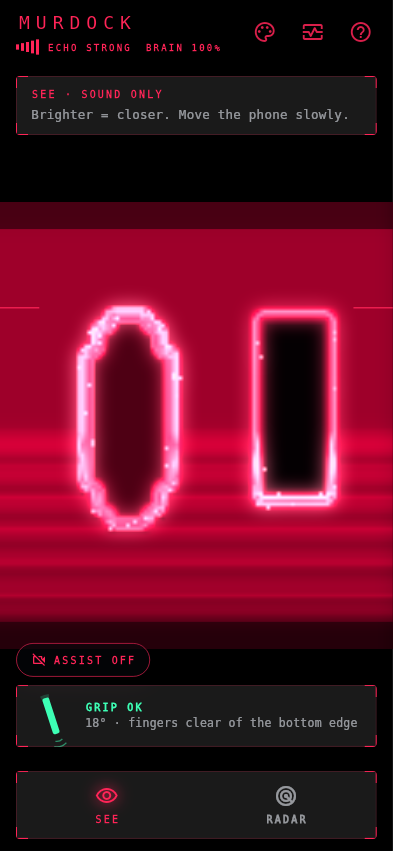
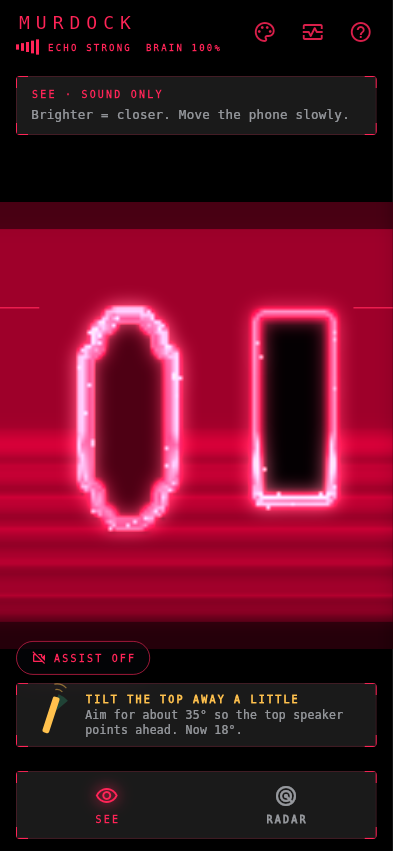
Fix echo AI crash on second launch; run the app upside down
- EchoBrain: 'interpreter = open()' ran as a property initializer before the
  lazy modelId delegate below it existed. open() only reads modelId when saved
  learning is present, so the AI loaded on first launch and crashed on every
  launch after its first save ('getValue() on a null object reference', seen on
  device). The interpreter is now created in the init block at the end of the
  class. tool/jvm_startup_check runs EchoBrain's real startup twice against a
  stand-in LiteRT: the old code reproduces the device error, the fix passes
- Upside-down layout (reversePortrait): the bottom-edge speaker ends up on top,
  so a comfortable reading angle (top tilted ~35 deg away) aims it ahead.
  Tilt is re-derived for the flipped phone, grip rules/gauge/guide updated,
  camera frames rotated a further 180 deg, capture orientation locked to match

Claude-Session: https://claude.ai/code/session_01FaaL1WKpQiBqvyPWN8qiJK

Changed region(s): [[0.0305, 0.7333, 0.9466, 0.886]]

diff --git a/lib/ui/grip.dart b/lib/ui/grip.dart
@@ -5,11 +5,13 @@ import 'package:flutter/material.dart';
 import '../render/palette.dart';
 import 'hud.dart';
 
-/// Recommended grip: portrait, back camera facing the room, top tilted toward you by about
-/// this much so the bottom-edge speaker points forward instead of at the floor.
-/// Tilt sign (from MainActivity): positive = top toward you, negative = top away / screen up.
-const double kIdealTilt = 18;
-const double kTiltTolerance = 12;
+/// Recommended grip: the app runs UPSIDE DOWN, so the speaker (normally the bottom edge) is
+/// at the top. Hold it like you're reading it, top tilted away from you by about this much:
+/// the screen faces you comfortably, the speaker aims ahead and up, the back camera faces the
+/// room (angled slightly down).
+/// Tilt sign (from MainActivity): positive = top (speaker end) away from you; 90 = flat.
+const double kIdealTilt = 35;
+const double kTiltTolerance = 15;
 
 enum GripLevel { ok, warn, bad }
 
@@ -21,7 +23,7 @@ class GripAdvice {
   final String detail;
 
   /// [tilt]/[roll] from the motion sensor; [directDb] = speaker loudness vs calibration;
-  /// [taughtTilt] = average tilt while teaching (only checked when [checkTaught]).
+  /// [taughtTilt] = average tilt while learning (only checked when [checkTaught]).
   static GripAdvice of({
     required double tilt,
     required double roll,
@@ -31,31 +33,28 @@ class GripAdvice {
   }) {
     if (!directDb.isNaN && directDb < -8) {
       return const GripAdvice(GripLevel.bad, 'SPEAKER OR MIC COVERED?',
-          'The speaker sounds much quieter than when calibrated. Keep fingers off the bottom edge.');
+          'The speaker sounds much quieter than when calibrated. Keep fingers off the top edge.');
     }
     if (roll.abs() > 35) {
-      return const GripAdvice(GripLevel.bad, 'HOLD IT UPRIGHT', 'Turn the phone to portrait, back camera facing the room.');
+      return const GripAdvice(GripLevel.bad, 'HOLD IT UPRIGHT', 'Hold it in portrait (this app runs upside down).');
     }
-    if (tilt < -40) {
-      return const GripAdvice(GripLevel.bad, 'TOO FLAT', 'Raise the phone upright so the back camera faces the room.');
+    if (tilt > 75) {
+      return const GripAdvice(GripLevel.bad, 'TOO FLAT',
+          'The camera is aiming at the floor. Raise the top of the phone a bit.');
     }
-    if (tilt > 55) {
-      return const GripAdvice(GripLevel.bad, 'TILTED TOO FAR TOWARD YOU',
-          'The camera is aiming at the ceiling. Bring the top of the phone back up.');
-    }
-    if (tilt < -5) {
-      return const GripAdvice(GripLevel.warn, 'TILT THE TOP TOWARD YOU',
-          'The top is leaning away, so the speaker aims at you and the floor. Lean the top toward you about 15°.');
+    if (tilt < -10) {
+      return const GripAdvice(GripLevel.bad, 'TOP LEANING TOWARD YOU',
+          'The speaker is aiming at you. Tilt the top of the phone away from you, like reading it.');
     }
     if (checkTaught && taughtTilt != null && (tilt - taughtTilt).abs() > 15) {
       return GripAdvice(GripLevel.warn, 'NOT HOW YOU TAUGHT IT',
           'You taught it at ${taughtTilt.round()}°; now ${tilt.round()}°. Match the grip for a better picture.');
     }
     if ((tilt - kIdealTilt).abs() > kTiltTolerance) {
-      return GripAdvice(GripLevel.warn, tilt < kIdealTilt ? 'TILT THE TOP TOWARD YOU A LITTLE' : 'TILT THE TOP BACK A LITTLE',
-          'Aim for about ${kIdealTilt.round()}° so the bottom speaker points ahead. Now ${tilt.round()}°.');
+      return GripAdvice(GripLevel.warn, tilt < kIdealTilt ? 'TILT THE TOP AWAY A LITTLE' : 'RAISE THE TOP A LITTLE',
+          'Aim for about ${kIdealTilt.round()}° so the top speaker points ahead. Now ${tilt.round()}°.');
     }
-    return GripAdvice(GripLevel.ok, 'GRIP OK', '${tilt.round()}° · fingers clear of the bottom edge');
+    return GripAdvice(GripLevel.ok, 'GRIP OK', '${tilt.round()}° · fingers clear of the top edge');
   }
 }
 
@@ -95,7 +94,7 @@ class GripBadge extends StatelessWidget {
 }
 
 /// The phone seen from the side (you are on the left, the room on the right), the green
-/// target wedge, and the speaker's sound beam leaving the bottom edge.
+/// target wedge, and the speaker's sound beam leaving the top edge.
 class TiltGaugePainter extends CustomPainter {
   TiltGaugePainter(this.tilt, this.colour);
 
@@ -109,20 +108,20 @@ class TiltGaugePainter extends CustomPainter {
     double rad(double deg) => deg * math.pi / 180;
     // Target zone around the ideal tilt (angles measured from vertical, top toward you).
     final zone = Paint()..color = const Color(0xFF3DFFB5).withValues(alpha: 0.18);
-    canvas.drawArc(Rect.fromCircle(center: c, radius: r), -math.pi / 2 - rad(kIdealTilt + kTiltTolerance),
+    canvas.drawArc(Rect.fromCircle(center: c, radius: r), -math.pi / 2 + rad(kIdealTilt - kTiltTolerance),
         rad(2 * kTiltTolerance), true, zone);
     canvas.save();
     canvas.translate(c.dx, c.dy);
-    canvas.rotate(-rad(tilt.clamp(-90, 90)));
+    canvas.rotate(rad(tilt.clamp(-90, 90)));
     final body = RRect.fromRectAndRadius(Rect.fromCenter(center: Offset.zero, width: 7, height: r * 1.7), const Radius.circular(2));
     canvas.drawRRect(body, Paint()..color = colour);
-    // Sound beam from the bottom edge.
+    // Sound beam from the top edge (the speaker, since the app runs upside down).
     final beam = Paint()
       ..color = colour.withValues(alpha: 0.5)
       ..style = PaintingStyle.stroke
       ..strokeWidth = 1.2;
     for (final f in [0.35, 0.6]) {
-      canvas.drawArc(Rect.fromCircle(center: Offset(0, r * 0.85), radius: r * f), math.pi / 2 - 0.5, 1.0, false, beam);
+      canvas.drawArc(Rect.fromCircle(center: Offset(0, -r * 0.85), radius: r * f), -math.pi / 2 - 0.5, 1.0, false, beam);
     }
     canvas.restore();
   }

diff --git a/test/widget_test.dart b/test/widget_test.dart
@@ -28,30 +28,21 @@ void main() {
     img.dispose();
   });
 
-  group('grip advice', () {
+  group('grip advice (upside-down layout: positive tilt = top away from you)', () {
     GripLevel level(double tilt, {double roll = 0, double db = double.nan, double? taught, bool see = false}) =>
         GripAdvice.of(tilt: tilt, roll: roll, directDb: db, taughtTilt: taught, checkTaught: see).level;
+    String title(double t) => GripAdvice.of(tilt: t, roll: 0, directDb: double.nan).title;
 
-    test('ideal tilt is OK', () => expect(level(18), GripLevel.ok));
-    test('bolt upright: tilt the top toward you', () => expect(level(0), GripLevel.warn));
-    test('top leaning away: speaker aims at you and the floor', () => expect(level(-20), GripLevel.warn));
-    test('lying flat (screen up) is bad', () => expect(level(-70), GripLevel.bad));
-    test('tilted far toward you is bad', () => expect(level(70), GripLevel.bad));
-    test('landscape is bad', () => expect(level(18, roll: 80), GripLevel.bad));
-    test('covered speaker beats everything', () => expect(level(18, db: -12), GripLevel.bad));
-    test('a few dB quieter is fine', () => expect(level(18, db: -3), GripLevel.ok));
-    test('SEE warns when the grip differs from teaching',
-        () => expect(level(25, taught: 5, see: true), GripLevel.warn));
-    test('TEACH ignores the taught grip', () => expect(level(25, taught: 5), GripLevel.ok));
-  });
-
-  test('grip messages point the right way', () {
-    String title(double t) =>
-        GripAdvice.of(tilt: t, roll: 0, directDb: double.nan).title;
-    expect(title(0), 'TILT THE TOP TOWARD YOU A LITTLE'); // upright: needs top toward you
-    expect(title(-20), 'TILT THE TOP TOWARD YOU'); // leaning away: needs top toward you
-    expect(title(40), 'TILT THE TOP BACK A LITTLE'); // too far toward you
-    expect(title(18), 'GRIP OK');
+    test('reading angle is OK', () => expect(level(35), GripLevel.ok));
+    test('bolt upright: tilt the top away a little', () => expect(title(5), 'TILT THE TOP AWAY A LITTLE'));
+    test('top toward you: speaker aims at you', () => expect(title(-20), 'TOP LEANING TOWARD YOU'));
+    test('nearly flat: raise the top', () => expect(title(60), 'RAISE THE TOP A LITTLE'));
+    test('flat is bad', () => expect(level(85), GripLevel.bad));
+    test('landscape is bad', () => expect(level(35, roll: 80), GripLevel.bad));
+    test('covered speaker beats everything', () => expect(level(35, db: -12), GripLevel.bad));
+    test('a few dB quieter is fine', () => expect(level(35, db: -3), GripLevel.ok));
+    test('SEE warns when the grip differs from learning', () => expect(level(45, taught: 25, see: true), GripLevel.warn));
+    test('without that check the same grip is fine', () => expect(level(45, taught: 25), GripLevel.ok));
   });
 
   testWidgets('invalid AI output never breaks the renderer', (tester) async {

diff --git a/android/app/src/main/kotlin/com/murdock/murdock/MainActivity.kt b/android/app/src/main/kotlin/com/murdock/murdock/MainActivity.kt
@@ -267,11 +267,14 @@ class MainActivity : FlutterActivity() {
     private fun reply(result: MethodChannel.Result, value: Any?) = main.post { result.success(value) }
 
     // ── Grip / tilt, for the GRIP indicator ─────────────────────────────────────────────
-    // Gravity in device coordinates -> tilt and roll, sent to Dart at most 5x a second.
-    //   tilt: 0 = upright portrait; POSITIVE = top tilted toward the user (screen turning
-    //         toward the floor, bottom-edge speaker aiming forward); -90 = flat, screen up.
-    //   roll: sideways lean; about ±90 in landscape.
-    // (At rest the sensor reads +g along the axis pointing up: upright gives +y, screen-up +z.)
+    // The app runs upside down (reversePortrait) so the bottom-edge speaker is at the TOP and
+    // a comfortable viewing angle aims it away from the user.
+    // Gravity in device coordinates -> tilt and roll *as the user sees the screen*:
+    //   tilt: 0 = upright; POSITIVE = displayed top (the speaker end) tilted AWAY from the
+    //         user, screen turning up toward their face; 90 = flat, screen up.
+    //   roll: sideways lean; about ±90 when held landscape.
+    // At rest the sensor reads +g along the axis pointing up. Upside down, "up on screen" is
+    // the device's -y axis, so upright gives gy = -g; screen-up gives +gz.
     private var lastPose = 0L
     private val poseListener = object : SensorEventListener {
         override fun onSensorChanged(e: SensorEvent) {
@@ -279,8 +282,8 @@ class MainActivity : FlutterActivity() {
             if (now - lastPose < 200) return
             lastPose = now
             val (gx, gy, gz) = e.values
-            val tilt = Math.toDegrees(kotlin.math.atan2(-gz.toDouble(), gy.toDouble()))
-            val roll = Math.toDegrees(kotlin.math.atan2(gx.toDouble(), kotlin.math.hypot(gy.toDouble(), gz.toDouble())))
+            val tilt = Math.toDegrees(kotlin.math.atan2(gz.toDouble(), -gy.toDouble()))
+            val roll = Math.toDegrees(kotlin.math.atan2(-gx.toDouble(), kotlin.math.hypot(gy.toDouble(), gz.toDouble())))
             emit(mapOf("type" to "pose", "tilt" to tilt, "roll" to roll))
         }
 

diff --git a/lib/ui/guide.dart b/lib/ui/guide.dart
@@ -28,13 +28,15 @@ const _steps = [
           'It bounces off walls, furniture and people, and your microphones hear the echoes.\n\n'
           'Most adults can\'t hear it. Kids and pets might.\n\n'
           'Turn your MEDIA VOLUME UP, and don\'t cover the speaker or mics.'),
-  _Step(Icons.back_hand_outlined, 'HOLD IT LIKE THIS', 'Grip matters',
-      'At these high pitches the speaker sends sound out in a narrow beam, mostly out of the BOTTOM edge.\n\n'
-          '•  Portrait, like taking a photo, with the back camera facing the room.\n'
+  _Step(Icons.back_hand_outlined, 'HOLD IT LIKE THIS', 'Upside down, like reading it',
+      'At these high pitches the speaker sends sound out in a narrow beam from the phone\'s BOTTOM edge. '
+          'So Murdock runs upside down: the speaker ends up on top.\n\n'
+          '•  Turn the phone upside down (the screen follows). Back camera faces the room.\n'
+          '•  Hold it like you\'re reading it: top tilted away from you about 35°. The screen faces you '
+          'and the speaker aims ahead.\n'
           '•  Arm partly out, about a foot from your chest.\n'
-          '•  Tilt the top toward you about 15–20°, so the bottom speaker points ahead instead of at the floor.\n'
-          '•  Hold it by the sides. Fingers off the bottom edge (speaker and mic).\n'
-          '•  Use the SAME grip when you teach and when you see.\n\n'
+          '•  Hold it by the sides. Fingers off the top edge (speaker and mic).\n'
+          '•  Keep the same grip all the time; the AI learns your grip too.\n\n'
           'The GRIP strip on screen checks all of this live and tells you what to fix.'),
   _Step(Icons.radar, 'STEP 1 · RADAR', 'Check your phone can hear',
       'Open RADAR. This is the raw sonar, with no AI involved.\n\n'

diff --git a/tool/jvm_startup_check/Fakes.kt b/tool/jvm_startup_check/Fakes.kt
@@ -1,0 +1,28 @@
+package org.tensorflow.lite
+
+import java.nio.ByteBuffer
+
+/** Stand-in for LiteRT so EchoBrain's own startup logic can run on a desktop JVM. */
+interface Tensor { fun numBytes(): Int }
+
+class Interpreter(model: ByteBuffer, options: Options) : AutoCloseable {
+    class Options {
+        fun setNumThreads(n: Int) = this
+        fun addDelegate(d: Any) = this
+    }
+    private val head = mapOf("w0" to 512 * 1024, "w1" to 1024, "w2" to 1024 * 1024, "w3" to 1024)
+    private fun t(n: Int) = object : Tensor { override fun numBytes() = n * 4 }
+    fun getSignatureInputs(key: String): Array<String> = if (key == "set_weights") head.keys.toTypedArray() else arrayOf("echo")
+    fun getSignatureOutputs(key: String): Array<String> = if (key == "get_weights") head.keys.toTypedArray() else arrayOf("depth")
+    fun getInputTensorFromSignature(name: String, key: String): Tensor = t(head[name] ?: 0)
+    fun getOutputTensorFromSignature(name: String, key: String): Tensor = t(head[name] ?: 0)
+    fun runSignature(inputs: Map<String, Any>, outputs: Map<String, Any>, key: String) {
+        for (o in outputs.values) {
+            val b = o as ByteBuffer
+            b.clear()
+            val fb = b.asFloatBuffer()
+            while (fb.hasRemaining()) fb.put(if (key == "infer") 0.5f else 0.01f)
+        }
+    }
+    override fun close() {}
+}

diff --git a/lib/train/camera_teacher.dart b/lib/train/camera_teacher.dart
@@ -1,8 +1,8 @@
 import 'dart:async';
 import 'dart:math' as math;
-import 'dart:typed_data';
 
 import 'package:camera/camera.dart';
+import 'package:flutter/services.dart';
 
 /// One camera frame for the teacher: upright 256x256 RGB plus how bright the scene was.
 class TeacherFrame {
@@ -36,6 +36,8 @@ class CameraTeacher {
     final c = CameraController(back, ResolutionPreset.low,
         enableAudio: false, imageFormatGroup: ImageFormatGroup.yuv420);
     await c.initialize();
+    // The app runs upside down (portraitDown); keep the preview and frames upright for that.
+    await c.lockCaptureOrientation(DeviceOrientation.portraitDown).catchError((Object _) {});
     controller = c;
     await c.startImageStream((img) async {
       final now = DateTime.now();
@@ -43,7 +45,8 @@ class CameraTeacher {
       _busy = true;
       _last = now;
       try {
-        await onFrame(toRgb(img, back.sensorOrientation));
+        // +180: the phone is held upside down, so the sensor image is rotated a further half turn.
+        await onFrame(toRgb(img, (back.sensorOrientation + 180) % 360));
       } catch (_) {
         // A dropped label is harmless; the next frame will try again.
       } finally {

diff --git a/android/app/src/main/kotlin/com/murdock/murdock/EchoBrain.kt b/android/app/src/main/kotlin/com/murdock/murdock/EchoBrain.kt
@@ -35,8 +35,11 @@ class EchoBrain(
 
     @Volatile private var stepBudget = 0f
 
-    // Declared after the counters: open() restores them, and Kotlin runs initializers in order.
-    private var interpreter = open()
+    // Created in the init block at the END of the class, never in a property initializer:
+    // open() reads modelId (a lazy delegate) and the counters, and Kotlin runs property
+    // initializers in textual order -- touching a later-declared delegate from an earlier
+    // initializer crashed startup with "getValue() on a null object reference".
+    private lateinit var interpreter: Interpreter
 
 
     var recordToDisk = true
@@ -302,6 +305,7 @@ class EchoBrain(
     // Last in the class on purpose: Kotlin runs property initializers and init blocks in
     // textual order, and these use fields declared above (good, trainEcho, ...).
     init {
+        interpreter = open()
         snapshot()
         loadRecentSamples()
     }

diff --git a/lib/home_page.dart b/lib/home_page.dart
@@ -88,7 +88,7 @@ class _HomePageState extends State<HomePage> with WidgetsBindingObserver {
           _tilt = p.tilt;
           _roll = p.roll;
         })));
-    _sonar.getNumber('taughtTilt2').then((t) => _taughtTilt = t);
+    _sonar.getNumber('taughtTilt3').then((t) => _taughtTilt = t);
     _sonar.getFlag('assistOff').then((off) => setState(() => _assist = !off));
     _subs.add(_sonar.stats.listen((s) => setState(() {
           _stats = s;
@@ -205,7 +205,7 @@ class _HomePageState extends State<HomePage> with WidgetsBindingObserver {
       final session = _sessionTiltSum / _sessionTiltN;
       final prev = _taughtTilt;
       _taughtTilt = prev == null ? session : (prev + session) / 2;
-      await _sonar.setNumber('taughtTilt2', _taughtTilt!);
+      await _sonar.setNumber('taughtTilt3', _taughtTilt!);
       _sessionTiltN = 0;
     }
   }

diff --git a/tool/jvm_startup_check/StartupTest.kt b/tool/jvm_startup_check/StartupTest.kt
@@ -1,0 +1,17 @@
+import com.murdock.murdock.EchoBrain
+import java.io.File
+import java.nio.ByteBuffer
+import java.nio.file.Files
+
+fun main() {
+    val dir = Files.createTempDirectory("brain").toFile()
+    val weights = File(dir, "brain/head.weights")
+    val model = ByteBuffer.allocateDirect(1024).put(ByteArray(1024) { it.toByte() })
+    // Launch 1: fresh install, learn a bit, save (writes weights + meta with the model id).
+    val first = EchoBrain(model, weights, File(dir, "samples"))
+    first.save()
+    println("launch 1 OK; meta = " + File(weights.path + ".meta").readText())
+    // Launch 2: the case that crashed on the phone (saved meta present at startup).
+    val second = EchoBrain(model, weights, File(dir, "samples"))
+    println("launch 2 OK; infer ok = " + second.infer(FloatArray(16 * 128 * 2)).all { it.isFinite() })
+}

diff --git a/lib/ui/system_check.dart b/lib/ui/system_check.dart
@@ -50,7 +50,7 @@ class SystemCheck extends StatelessWidget {
     rows.add(s.pingsPerSec >= 15
         ? _Row('PINGS', '${s.pingsPerSec}/s', _Level.ok)
         : _Row('PINGS', '${s.pingsPerSec}/s', s.pingsPerSec == 0 ? _Level.bad : _Level.warn,
-            'The app can\'t lock onto its own chirp. Turn the volume up and don\'t cover the bottom of the phone.'));
+            'The app can\'t lock onto its own chirp. Turn the volume up and don\'t cover the top edge (the speaker, since the app runs upside down).'));
     final pct = (signal * 100).round();
     rows.add(signal > 0.3
         ? _Row('ECHO CLARITY', '$pct%', _Level.ok)

diff --git a/lib/main.dart b/lib/main.dart
@@ -5,7 +5,9 @@ import 'home_page.dart';
 
 void main() {
   WidgetsFlutterBinding.ensureInitialized();
-  SystemChrome.setPreferredOrientations([DeviceOrientation.portraitUp]);
+  // Upside down on purpose: the speaker (normally the bottom edge) ends up on top, so a
+  // comfortable viewing angle aims it away from you. See ui/grip.dart.
+  SystemChrome.setPreferredOrientations([DeviceOrientation.portraitDown]);
   SystemChrome.setEnabledSystemUIMode(SystemUiMode.immersiveSticky);
   runApp(const MurdockApp());
 }

diff --git a/tool/jvm_startup_check/android/util/Log.kt b/tool/jvm_startup_check/android/util/Log.kt
@@ -1,0 +1,6 @@
+package android.util
+object Log {
+    @JvmStatic fun w(t: String, m: String): Int { println("W/$t: $m"); return 0 }
+    @JvmStatic fun i(t: String, m: String): Int { println("I/$t: $m"); return 0 }
+    @JvmStatic fun e(t: String, m: String, e: Throwable): Int { println("E/$t: $m $e"); return 0 }
+}
